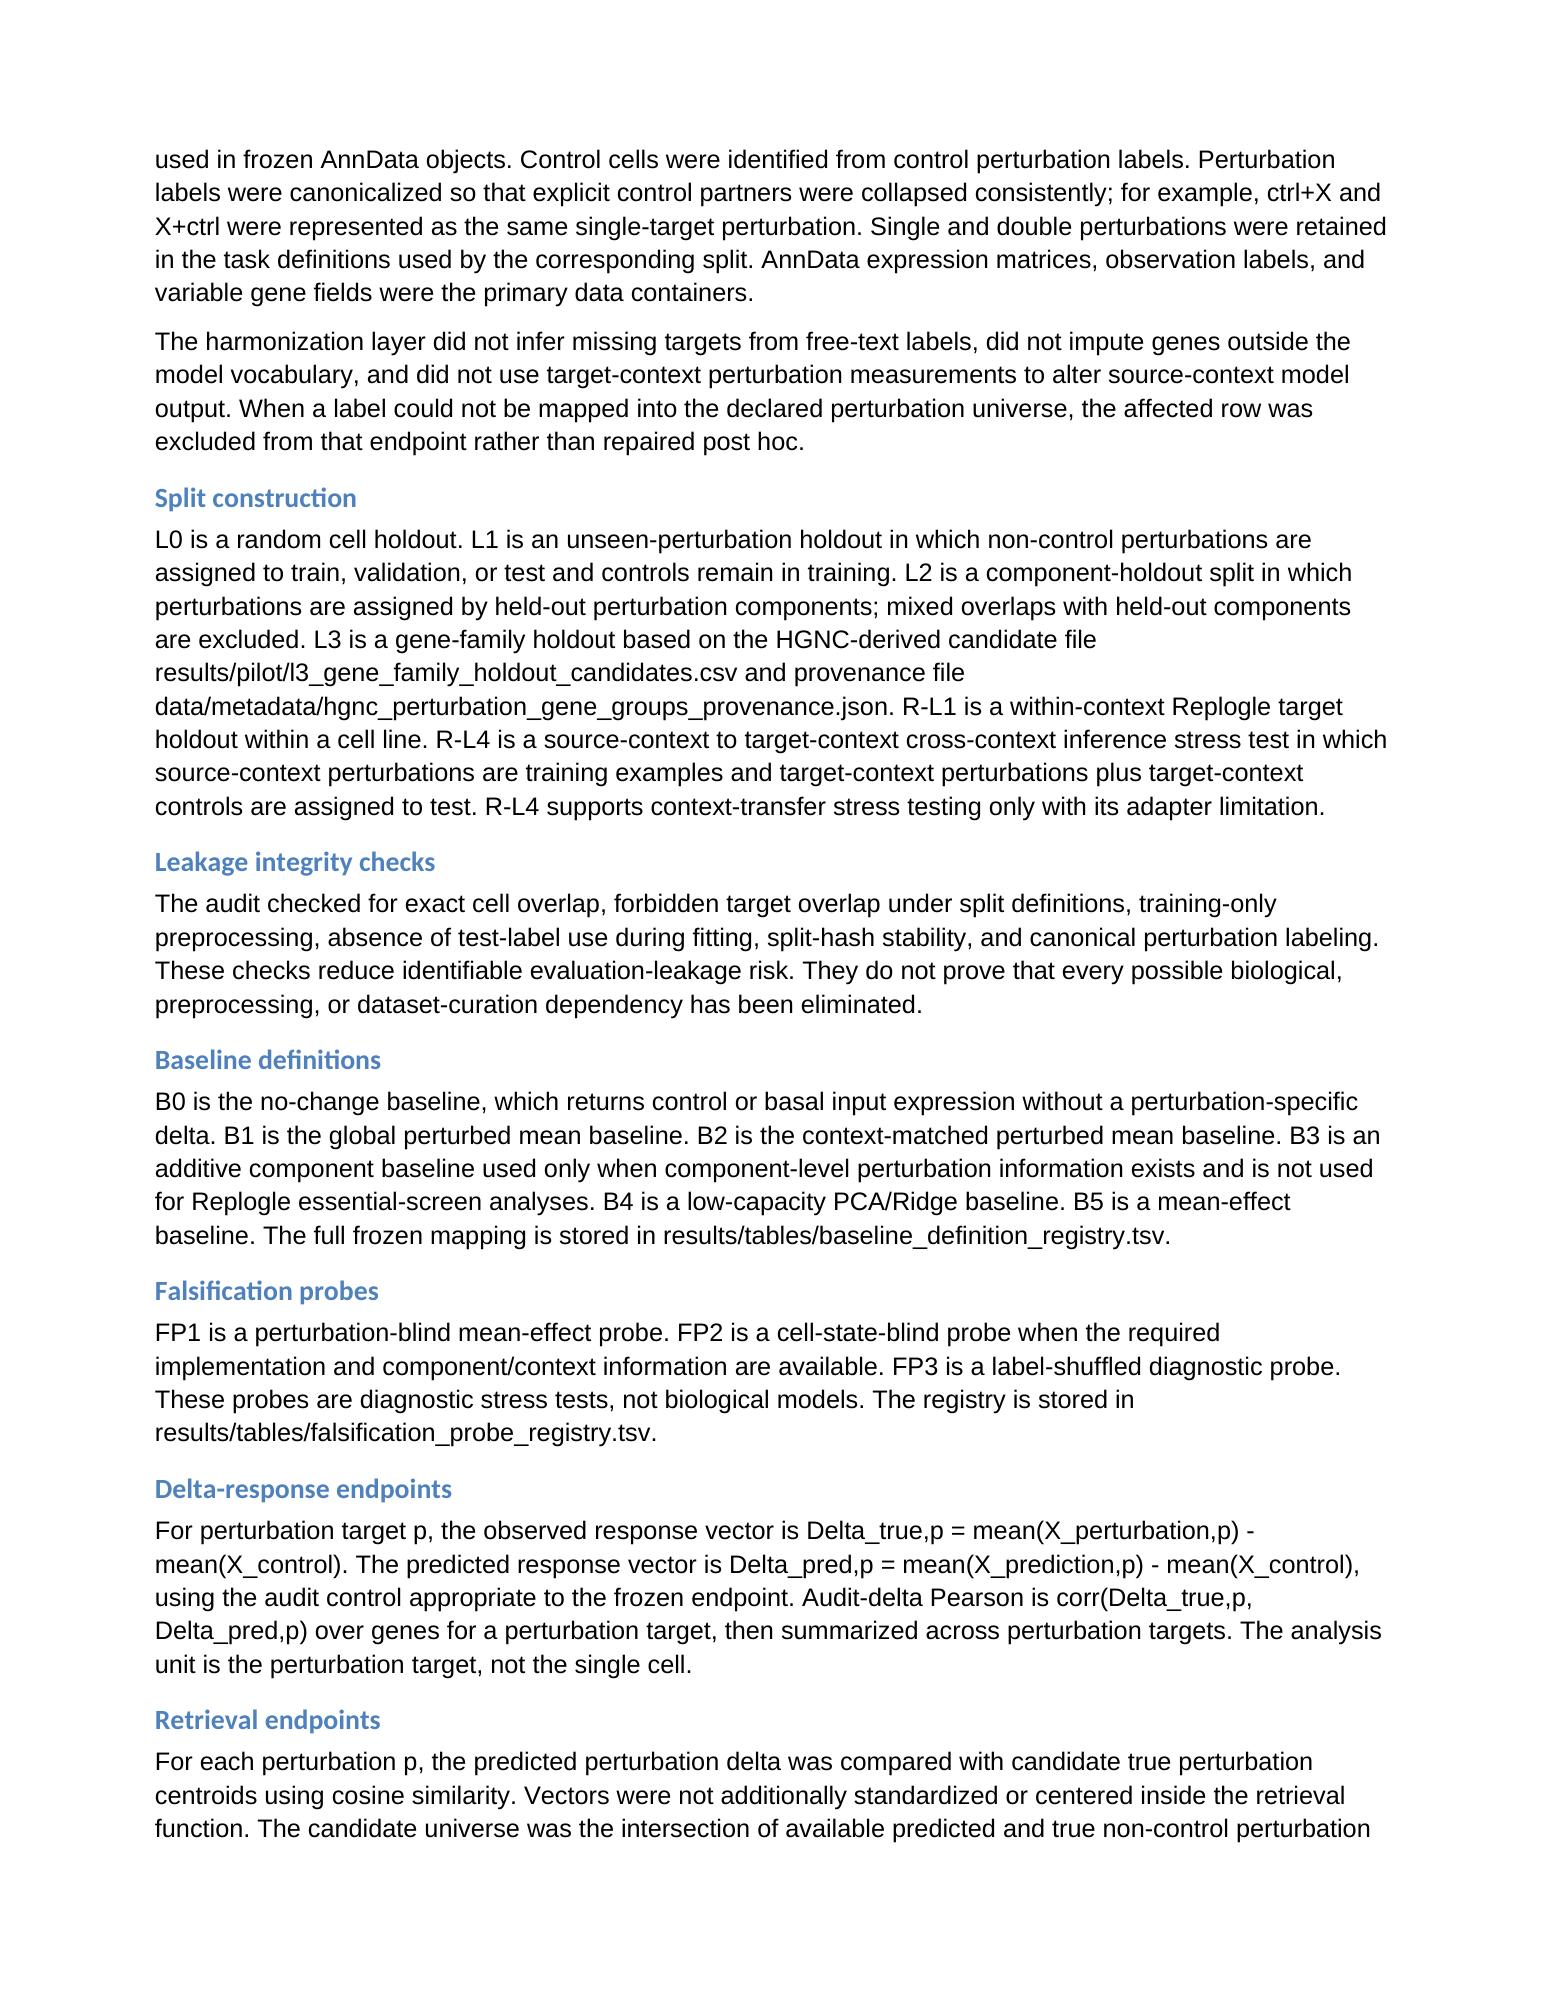
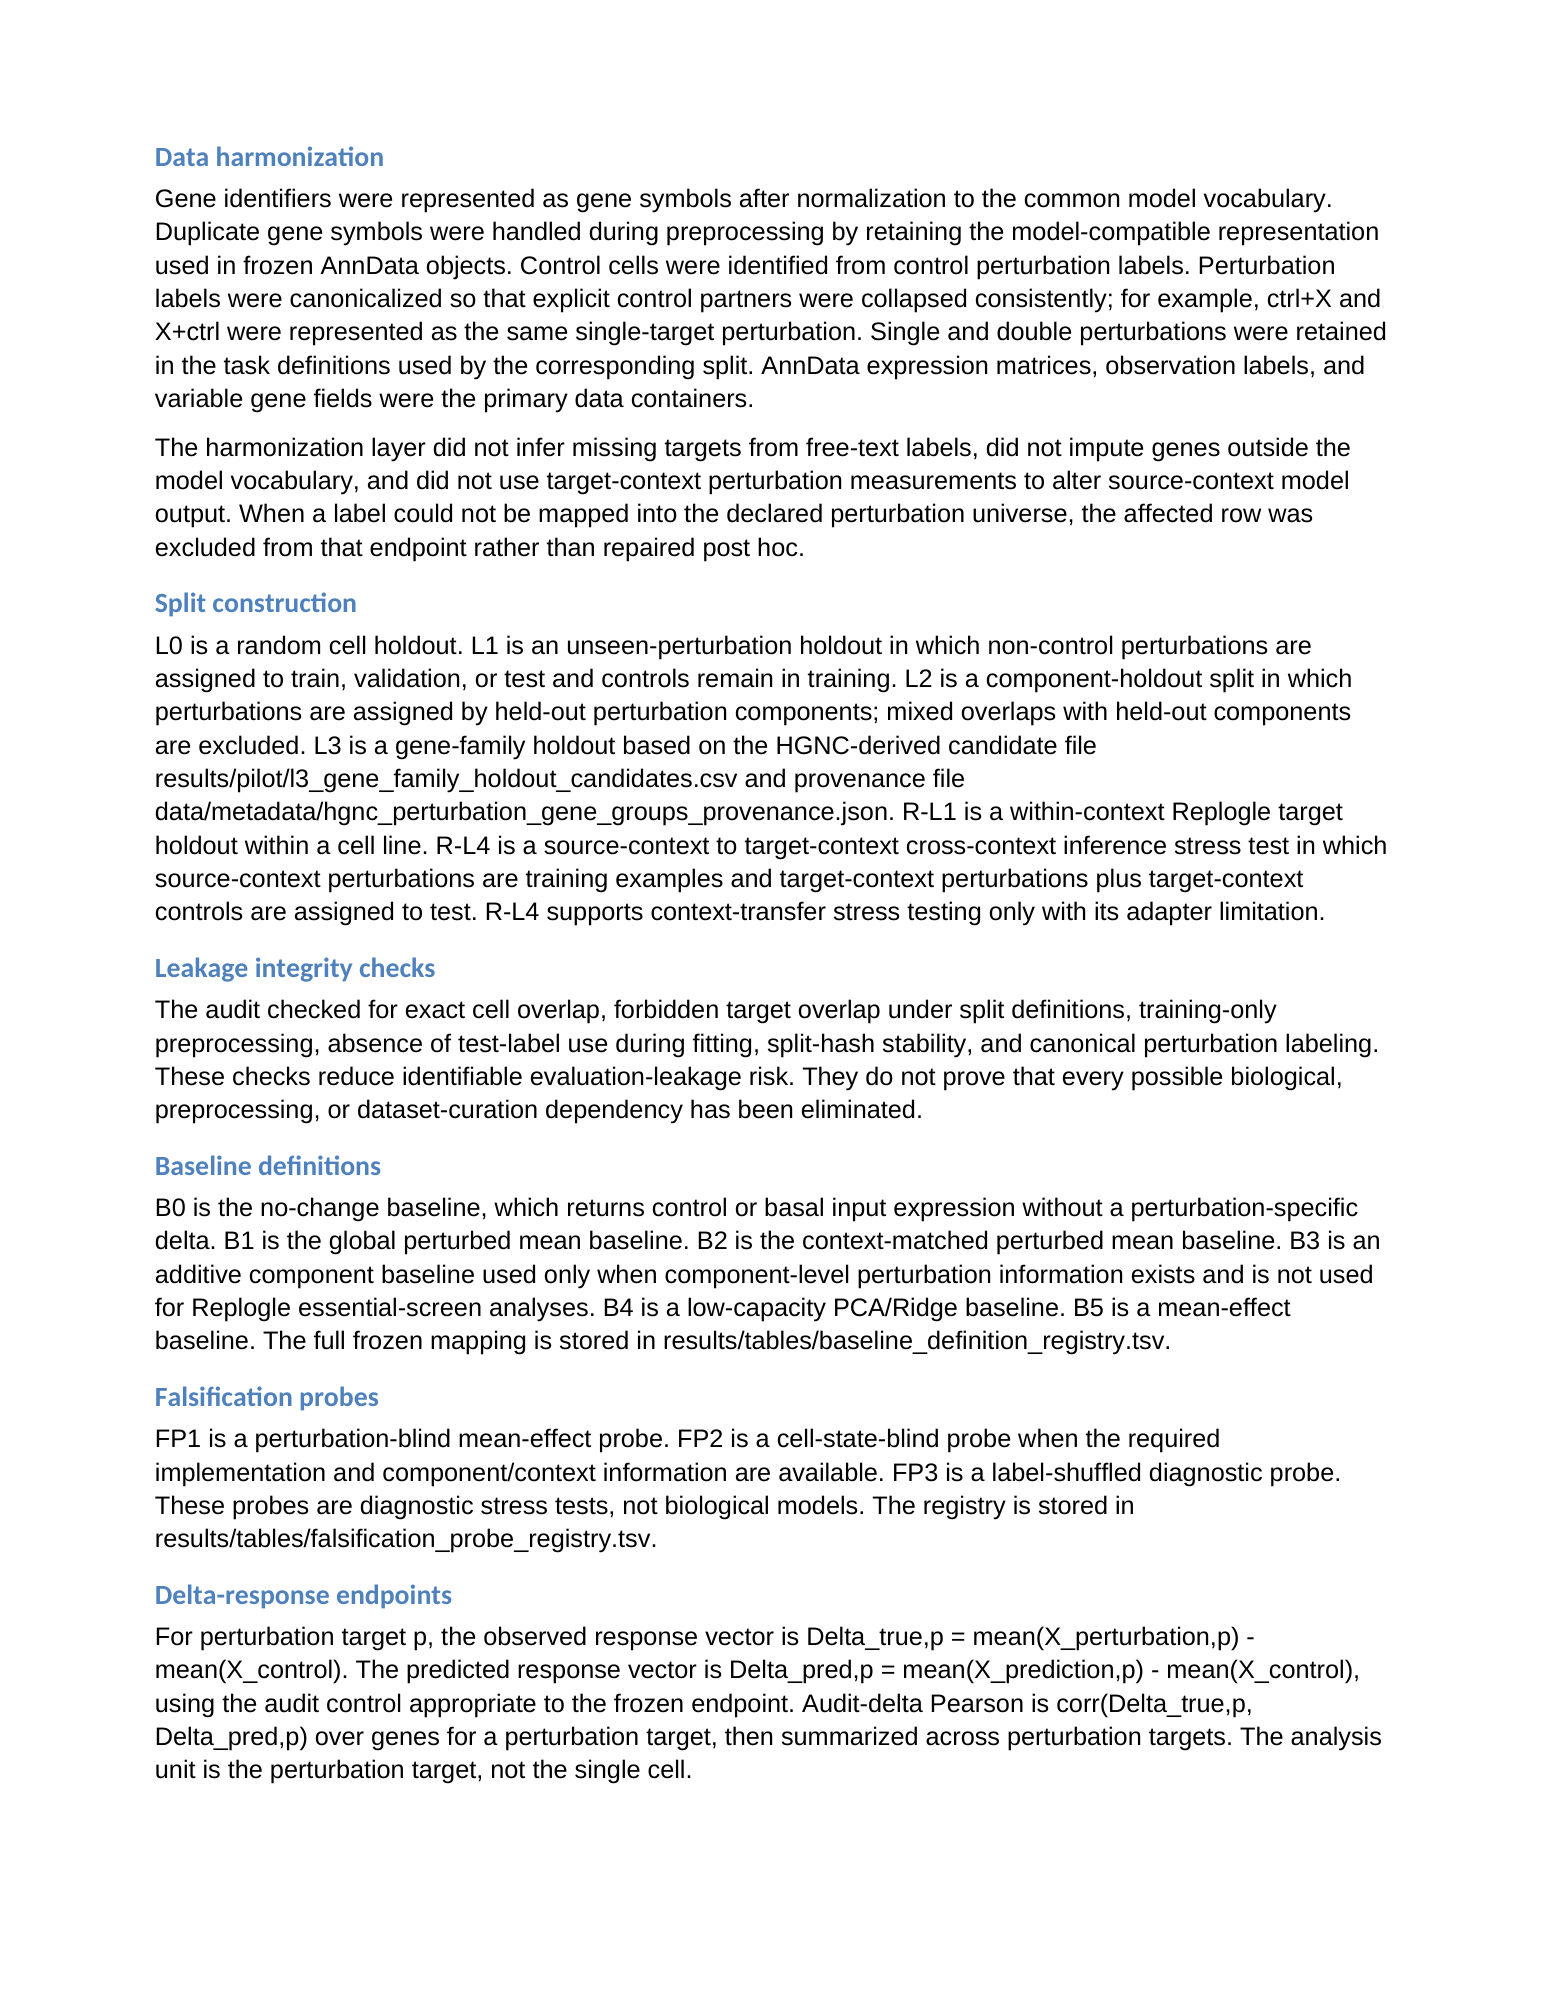
Add public repository URL to CRM materials

Changed region(s): [[0.0931, 0.0619, 0.8998, 0.9291]]

diff --git a/scripts/build_crm_v13_final_hardening.py b/scripts/build_crm_v13_final_hardening.py
@@ -744,7 +744,7 @@ This computational study did not generate new physical reagents.
 
 #### Data and code availability
 
-Norman perturbation data were used through a GEARS-compatible processed mirror [1,3]. Replogle analyses used GEARS-compatible filtered essential-screen K562 and RPE1 objects; complete Figshare+ processed objects were not part of the frozen analyses [2,10,11]. Derived result tables are stored under `results/tables/`, and manuscript figures are stored under `figures/main/` and `figures/supplementary/`. Public repository URL and archived code/result DOI remain to be completed before journal submission. Working metadata use `[ZENODO_DOI_PENDING]` only as a placeholder.
+Norman perturbation data were used through a GEARS-compatible processed mirror [1,3]. Replogle analyses used GEARS-compatible filtered essential-screen K562 and RPE1 objects; complete Figshare+ processed objects were not part of the frozen analyses [2,10,11]. Derived result tables are stored under `results/tables/`, and manuscript figures are stored under `figures/main/` and `figures/supplementary/`. Code and derived manuscript-facing data are available at https://github.com/seefreewind/VirtualPerturb-Audit. The archived code/result DOI remains to be completed before journal submission. Working metadata use `[ZENODO_DOI_PENDING]` only as a placeholder.
 
 ### Method details
 

diff --git a/manuscript/CRM_MANUSCRIPT_v1.6_FULL.md b/manuscript/CRM_MANUSCRIPT_v1.6_FULL.md
@@ -2,7 +2,7 @@
 
 Draft version: CRM_MANUSCRIPT_v1.6_FULL
 
-Generated: 2026-09-01 14:07:50 UTC
+Generated: 2026-09-01 14:18:05 UTC
 
 ## Author Information
 
@@ -102,7 +102,7 @@ This computational study did not generate new physical reagents.
 
 #### Data and code availability
 
-Norman perturbation data were used through a GEARS-compatible processed mirror [1,3]. Replogle analyses used GEARS-compatible filtered essential-screen K562 and RPE1 objects; complete Figshare+ processed objects were not part of the frozen analyses [2,10,11]. Derived result tables are stored under `results/tables/`, and manuscript figures are stored under `figures/main/` and `figures/supplementary/`. Public repository URL and archived code/result DOI remain to be completed before journal submission. Working metadata use `[ZENODO_DOI_PENDING]` only as a placeholder.
+Norman perturbation data were used through a GEARS-compatible processed mirror [1,3]. Replogle analyses used GEARS-compatible filtered essential-screen K562 and RPE1 objects; complete Figshare+ processed objects were not part of the frozen analyses [2,10,11]. Derived result tables are stored under `results/tables/`, and manuscript figures are stored under `figures/main/` and `figures/supplementary/`. Code and derived manuscript-facing data are available at https://github.com/seefreewind/VirtualPerturb-Audit. The archived code/result DOI remains to be completed before journal submission. Working metadata use `[ZENODO_DOI_PENDING]` only as a placeholder.
 
 ### Method details
 

diff --git a/manuscript/CRM_MANUSCRIPT_v1.5.md b/manuscript/CRM_MANUSCRIPT_v1.5.md
@@ -102,7 +102,7 @@ This computational study did not generate new physical reagents.
 
 #### Data and code availability
 
-Norman perturbation data were used through a GEARS-compatible processed mirror [1,3]. Replogle analyses used GEARS-compatible filtered essential-screen K562 and RPE1 objects; complete Figshare+ processed objects were not part of the frozen analyses [2,10,11]. Derived result tables are stored under `results/tables/`, and manuscript figures are stored under `figures/main/` and `figures/supplementary/`. Public repository URL and archived code/result DOI remain to be completed before journal submission. Working metadata use `[ZENODO_DOI_PENDING]` only as a placeholder.
+Norman perturbation data were used through a GEARS-compatible processed mirror [1,3]. Replogle analyses used GEARS-compatible filtered essential-screen K562 and RPE1 objects; complete Figshare+ processed objects were not part of the frozen analyses [2,10,11]. Derived result tables are stored under `results/tables/`, and manuscript figures are stored under `figures/main/` and `figures/supplementary/`. Code and derived manuscript-facing data are available at https://github.com/seefreewind/VirtualPerturb-Audit. The archived code/result DOI remains to be completed before journal submission. Working metadata use `[ZENODO_DOI_PENDING]` only as a placeholder.
 
 ### Method details
 

diff --git a/REPRODUCIBILITY.md b/REPRODUCIBILITY.md
@@ -39,6 +39,12 @@ Key packages include pandas, matplotlib, python-docx, openpyxl, PyTorch, Scanpy,
 - `results/tables/state_transfer_drop.csv`
 - `results/tables/gears_state_primary_comparison.csv`
 
+## Public Release
+
+- GitHub repository: https://github.com/seefreewind/VirtualPerturb-Audit
+- The repository includes source code, manuscript-facing derived result tables, figure scripts, generated figures, reports, and manuscript drafts.
+- Raw downloaded datasets, large model outputs, external dependency checkouts, and local runtime environments are intentionally excluded.
+
 ## Figure Regeneration
 
 ```bash
@@ -50,4 +56,4 @@ environment/state-postprocess-venv/bin/python scripts/finalize_crm_submission_v1
 - Complete Replogle Figshare+ command-line access was blocked by HTTP 403 in the frozen project state.
 - Full GEARS training is slow and terminal-lifetime sensitive on CPU.
 - STATE execution depends on a CUDA-capable Linux server and local adapter paths.
-- Public repository URL, archive DOI, and final environment export remain manual release tasks.
+- Archive DOI and final environment export remain manual release tasks.

diff --git a/README.md b/README.md
@@ -42,10 +42,14 @@ python scripts/build_crm_v13_final_hardening.py
 
 No model training is performed by the v1.3 script.
 
+## Public Repository
+
+The public code and derived-data repository is available at https://github.com/seefreewind/VirtualPerturb-Audit.
+
 ## Known Limitations
 
 The Replogle demonstration uses GEARS-compatible filtered essential-screen data. UER is an internal sensitivity endpoint. A replicate-derived empirical performance bound was not established. GEARS R-L4 is a cross-context inference adapter. STATE matched transfer uses 15 shared targets and is interpreted as partial, endpoint-heterogeneous support.
 
 ## Citation
 
-Use `CITATION.cff` after the public repository and archive DOI are finalized.
+Use `CITATION.cff` with the public repository. Archive DOI metadata should be updated after Zenodo or another code archive issues a DOI.

diff --git a/reports/CRM_MANUSCRIPT_V16_FULL_QC.md b/reports/CRM_MANUSCRIPT_V16_FULL_QC.md
@@ -20,15 +20,3 @@ Status: PASS
 ## Render
 
 Render return code: 0; output dir: /Volumes/EMPTY2TB/VirtualPerturb-Audit 方案设计/VirtualPerturb-Audit/reports/docx_qc_v16_full_pages; stdout: Pages rendered to /Volumes/EMPTY2TB/VirtualPerturb-Audit 方案设计/VirtualPerturb-Audit/reports/docx_qc_v16_full_pages; stderr:
-
-## Visual QA
-
-| Page | Content checked | Status |
-|---|---|---|
-| 3 | Figure 1 plus Table 1 transition | PASS |
-| 4 | Figure 2 and Results continuation | PASS |
-| 5 | Figure 3 and Figure 4 lead-in | PASS |
-| 6 | Figure 4 image and caption kept together | PASS |
-| 7 | Figure 5 image and caption kept together | PASS |
-
-No figure image was split across pages, and no figure caption was separated from its image after the Figure 4 page-break correction.
